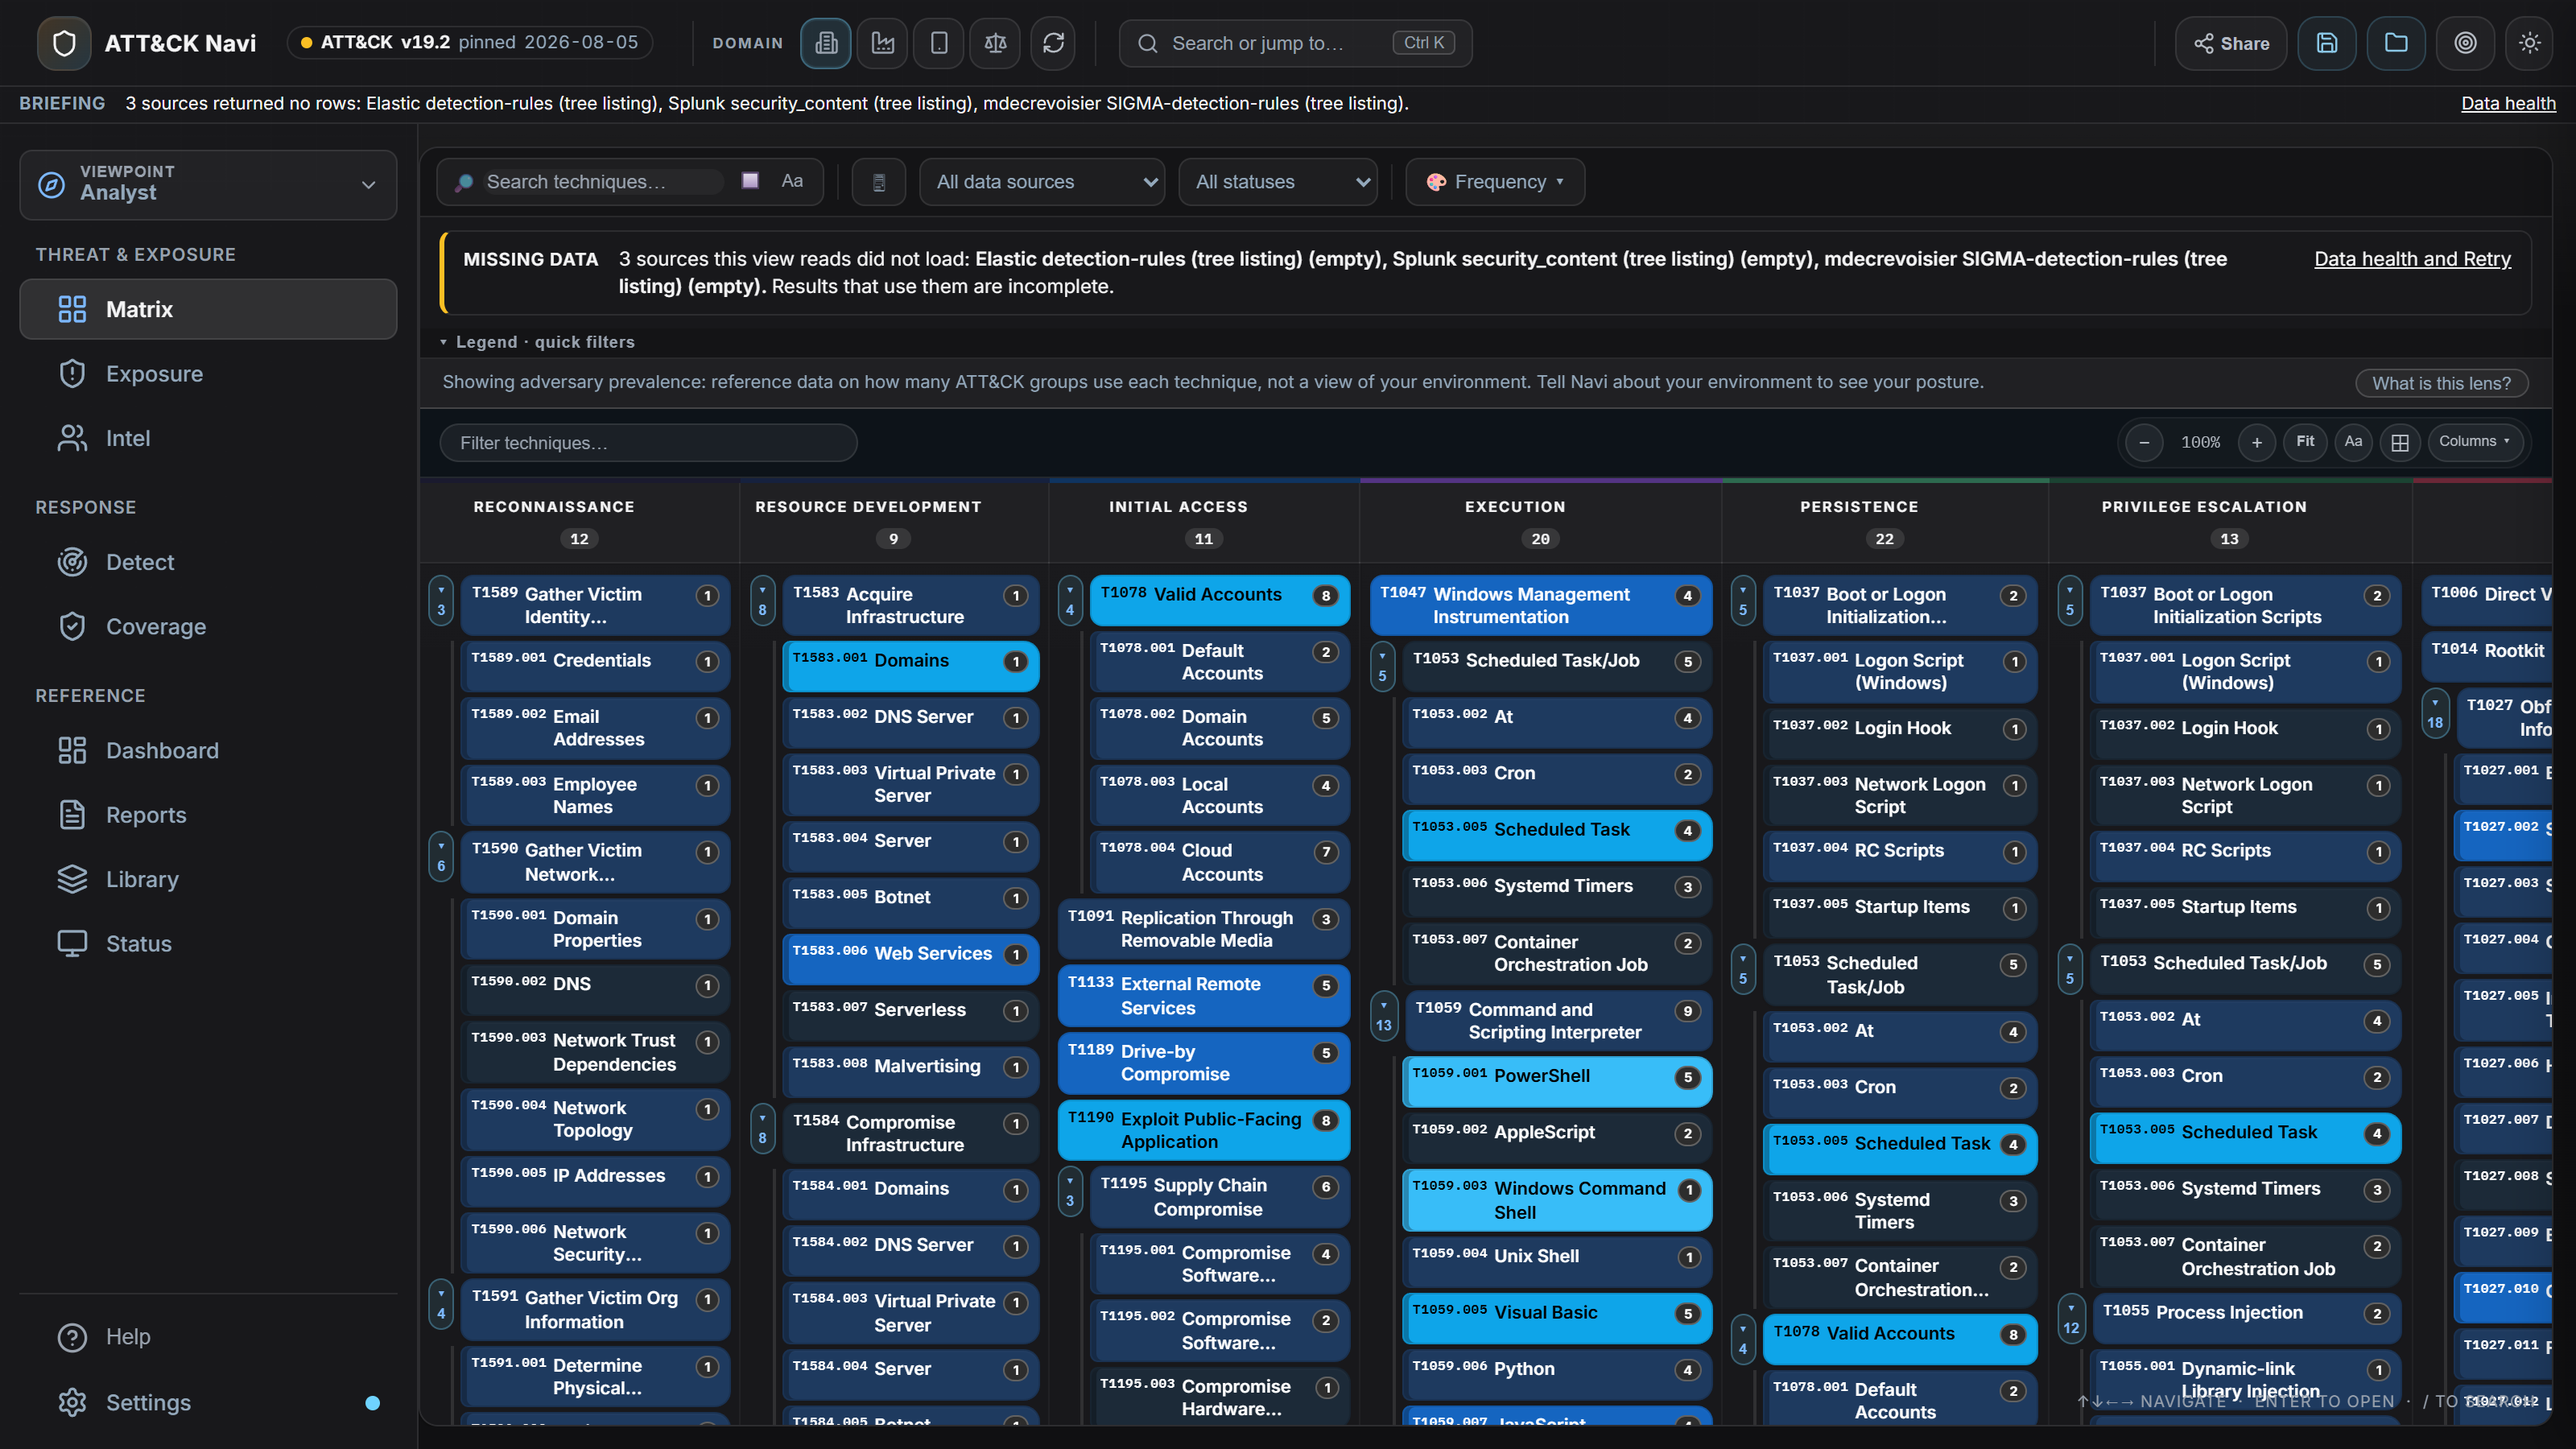
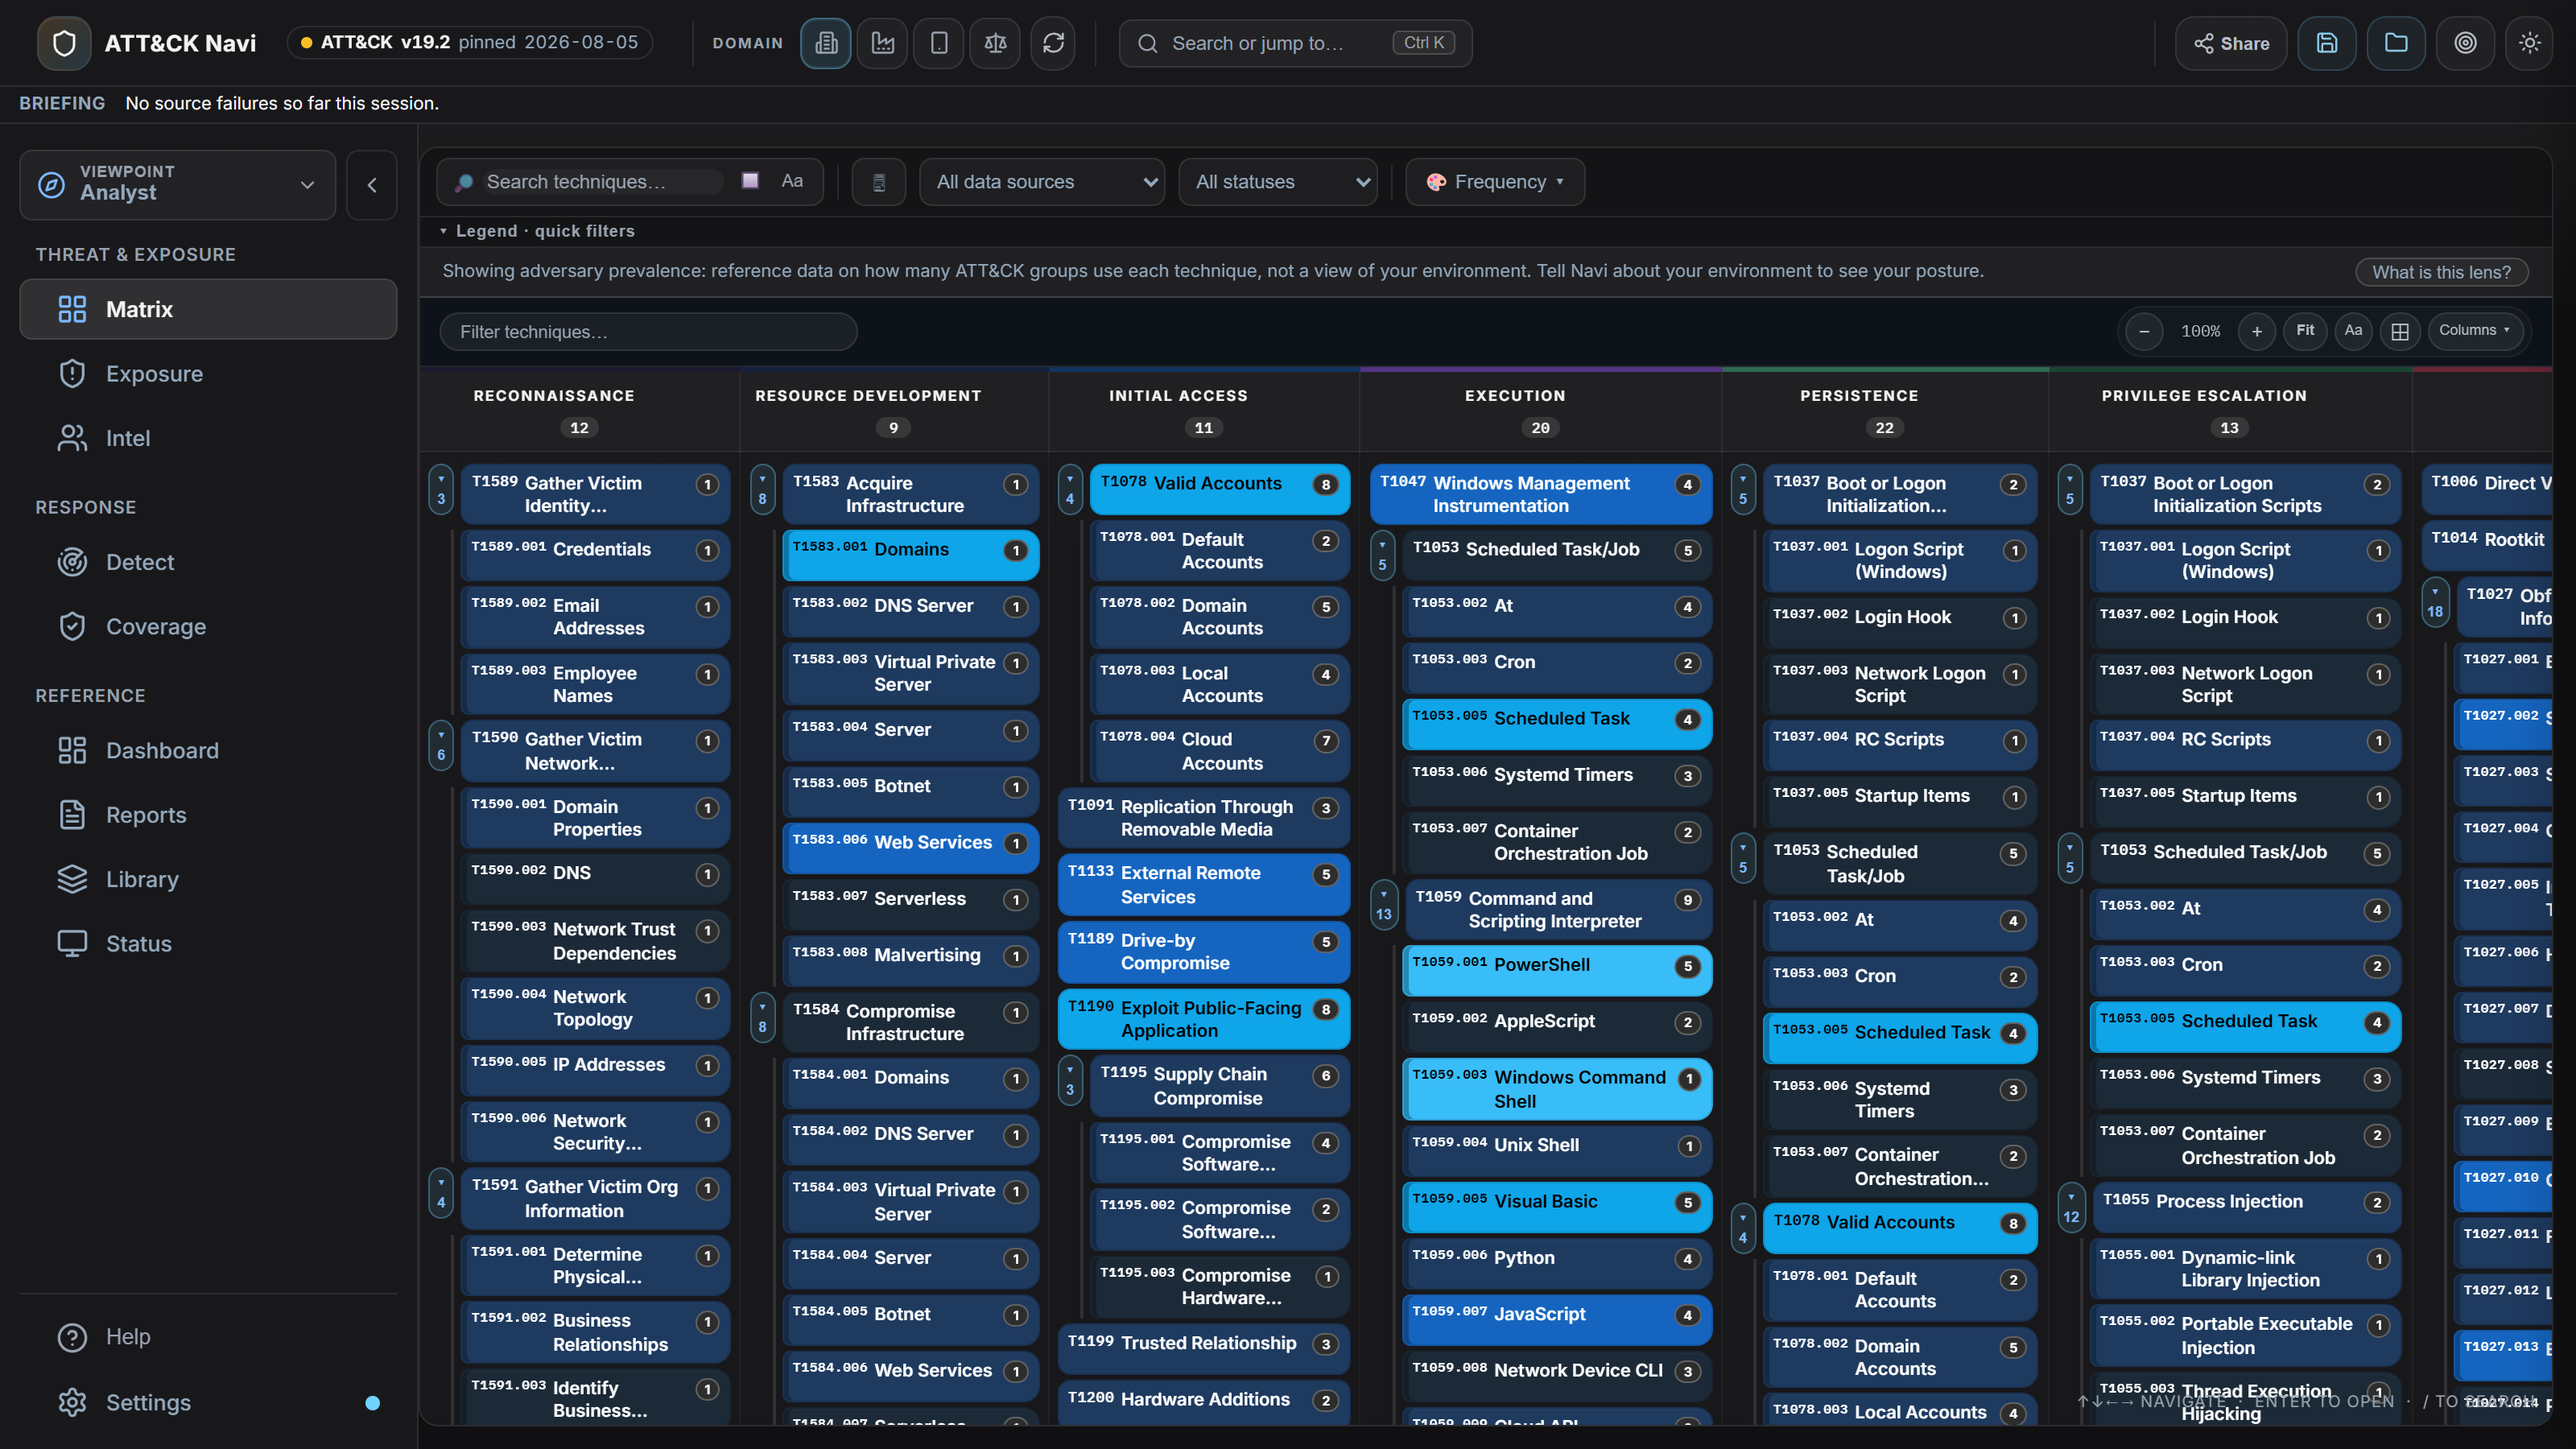
docs(readme): recapture the screenshots on current main and correct stale README lines
Recaptured live2.png, attack-navi-intel.png and attack-navi-live.png from a
served production build of main c1dd13c (rule-coverage snapshot merged), so the
hero no longer shows the missing-data banner. README fixes, each checked
against the tree:
- Known limitations: replace the "not updated" bullet with the true remainder
  (docs/HEATMAPS.md details 27 of the 36 modes; names the nine others).
- Build: the angular.json project name is still mitre-mitigation-navigator.
- Data sources: Elastic and Splunk counts come from the pinned build-time
  rule-coverage snapshot refreshed monthly; sentinel-attack is withdrawn
  upstream; M365 Defender remains a tree listing.
- Service worker: api.github.com is not cached and the Elastic/Splunk entries
  no longer match any request.

diff --git a/README.md b/README.md
@@ -105,7 +105,7 @@ Many mapping datasets are pinned to older ATT&CK releases: most CTID Mappings Ex
 | Elastic, Splunk and Microsoft 365 Defender counts | `elastic/detection-rules`, `splunk/security_content` and `microsoft/Microsoft-365-Defender-Hunting-Queries` |
 | Atomic Red Team tests | Red Canary Navigator layer for counts, per-technique YAML on demand |
 | CAR analytics | `mitre-attack/car` Navigator layer |
-| Hunting queries, Sentinel rules and log samples | OTRF ThreatHunter-Playbook, `edoardogerosa/sentinel-attack`, `mdecrevoisier/EVTX-to-MITRE-Attack`, `Cyb3r-Monk/Threat-Hunting-and-Detection` |
+| Hunting queries, Sentinel rules and log samples | OTRF ThreatHunter-Playbook, `edoardogerosa/sentinel-attack` (withdrawn upstream, no request), `mdecrevoisier/EVTX-to-MITRE-Attack`, `Cyb3r-Monk/Threat-Hunting-and-Detection` |
 | Control mappings | CTID Mappings Explorer: NIST 800-53 Rev5, AWS, Azure, GCP, CRI Profile v2.1 (Cyber Risk Institute), VERIS 1.4.0, CSA CCM 4.1, M365 controls |
 | Defensive techniques | D3FEND API (`d3fend.mitre.org`) |
 | Adversary engagement | MITRE Engage JSON (`mitre/engage`) |
@@ -114,7 +114,7 @@ Many mapping datasets are pinned to older ATT&CK releases: most CTID Mappings Ex
 | ATT&CK release notes | `attack-stix-data` GitHub releases |
 | Other sidebar content | `swisskyrepo/PayloadsAllTheThings`, `stamparm/ipsum`, `mukul975/Anthropic-Cybersecurity-Skills` |
 
-Several of these are community repositories rather than vendor or MITRE datasets; `mukul975/Anthropic-Cybersecurity-Skills` is one such community repository, not an Anthropic project, despite its name. The Elastic, Splunk and Microsoft 365 Defender counts come from GitHub tree listings and include only files whose path contains a technique ID, so they undercount. The Microsoft 365 Defender hunting query repository was archived by Microsoft in 2022.
+Several of these are community repositories rather than vendor or MITRE datasets; `mukul975/Anthropic-Cybersecurity-Skills` is one such community repository, not an Anthropic project, despite its name. The Elastic and Splunk counts, and the per-technique `mdecrevoisier/SIGMA-detection-rules` list, come from a build-time snapshot of the rule bodies at pinned commits (`src/assets/data/rule-coverage-snapshot.json`, built by `scripts/build-rule-coverage-snapshot.mjs`); the monthly `refresh-data.yml` workflow moves the pins, and the app sends no request to GitHub for them. They count rules in public repositories, not what runs in an environment. The Microsoft 365 Defender count still comes from a GitHub tree listing and is read from file and folder names. The Microsoft 365 Defender hunting query repository was archived by Microsoft in 2022, and `edoardogerosa/sentinel-attack` removed every rule upstream on 2024-11-28, so the app marks it withdrawn upstream and makes no request to it.
 
 ### Bundled with the app
 
@@ -161,9 +161,9 @@ Unit specs use Karma and Jasmine and sit next to the code they test as `*.spec.t
 
 ### Build
 
-`npm run build` writes a production build to `dist/mitre-mitigation-navigator/browser/`. The directory name comes from the Angular project name in `angular.json`, which predates the current project name. The initial bundle budget warns at 1.2 MB and fails at 2 MB. `src/index.html` uses `<base href="./">`; pass `--base-href` when you host under a fixed path.
+`npm run build` writes a production build to `dist/mitre-mitigation-navigator/browser/`. The directory name comes from the Angular project name in `angular.json`, which is still `mitre-mitigation-navigator`. The initial bundle budget warns at 1.2 MB and fails at 2 MB. `src/index.html` uses `<base href="./">`; pass `--base-href` when you host under a fixed path.
 
-Production builds register the Angular service worker configured in `ngsw-config.json`. For data requests it tries the network first and falls back to a cached response when a request fails or takes longer than 10 seconds (15 seconds for the APIs). Cached responses are kept for 24 hours for the `mitre-attack` GitHub repositories, 12 hours for raw files from the CTID, Red Canary, SigmaHQ, Elastic, Splunk and MISP organizations and from `mitre/cti`, and 6 hours for the FIRST and NVD APIs. Requests to other hosts are not cached.
+Production builds register the Angular service worker configured in `ngsw-config.json`. For data requests it tries the network first and falls back to a cached response when a request fails or takes longer than 10 seconds (15 seconds for the APIs). Cached responses are kept for 24 hours for the `mitre-attack` GitHub repositories, 12 hours for raw files from the CTID, Red Canary, SigmaHQ, Elastic, Splunk and MISP organizations and from `mitre/cti`, and 6 hours for the FIRST and NVD APIs. Requests to other hosts, including `api.github.com`, are not cached. The Elastic and Splunk entries in that list no longer match any request, because those counts are read from the bundled rule-coverage snapshot.
 
 ### npm scripts
 
@@ -283,7 +283,7 @@ Single-key shortcuts are ignored while you are typing in a field. When the matri
 - MISP event and attribute queries exist in `misp.service.ts` but nothing in the UI calls them. The MISP Events tab builds event templates locally.
 - Control mappings (NIST 800-53, cloud, CRI Profile, VERIS, CSA CCM and M365) are not translated through revoked-by relationships, so mappings to retired techniques such as the T1562 family do not appear on the techniques that replaced them.
 - CTID removed CIS Controls from Mappings Explorer as of ATT&CK v16, so the CIS Controls service has no source and loads empty.
-- CONTRIBUTING.md, ARCHITECTURE.md and docs/HEATMAPS.md have not been updated for some recent additions (for example ARCHITECTURE's theming section predates the OS-following theme). Where they disagree with `package.json` or the source, the code is correct.
+- docs/HEATMAPS.md documents 27 of the 36 heatmap modes in its summary table and detailed sections. The other nine (Library Layer, My Exposure, CVE Kill Chain, PoC Exploits, Wazuh stock rules, M365 Defender, CSA CCM, M365 Controls and F3 Origin) are listed only in the lens menu and defined in `src/app/models/heatmap-modes.ts`.
 
 ## Companion reference library
 
